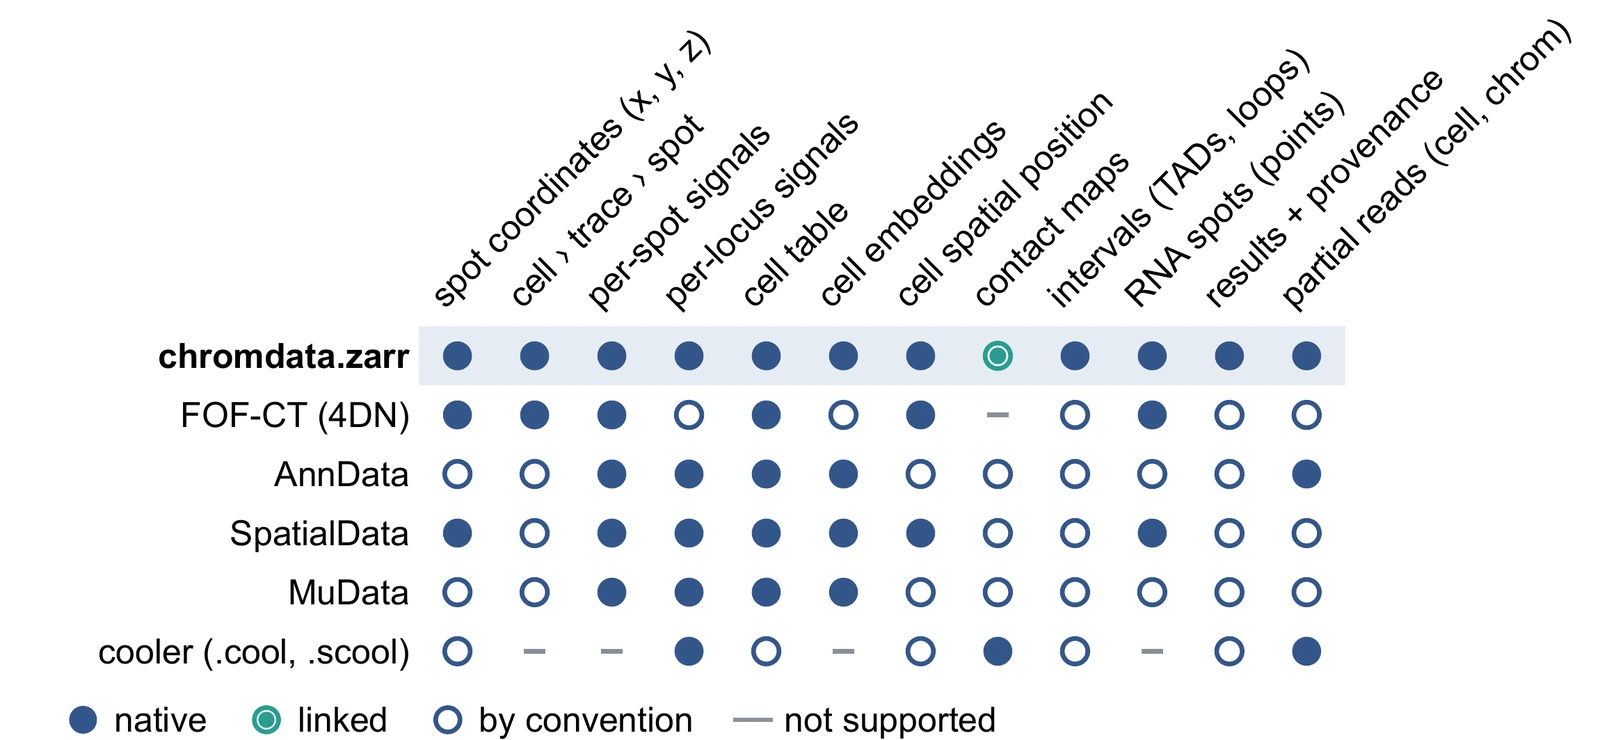
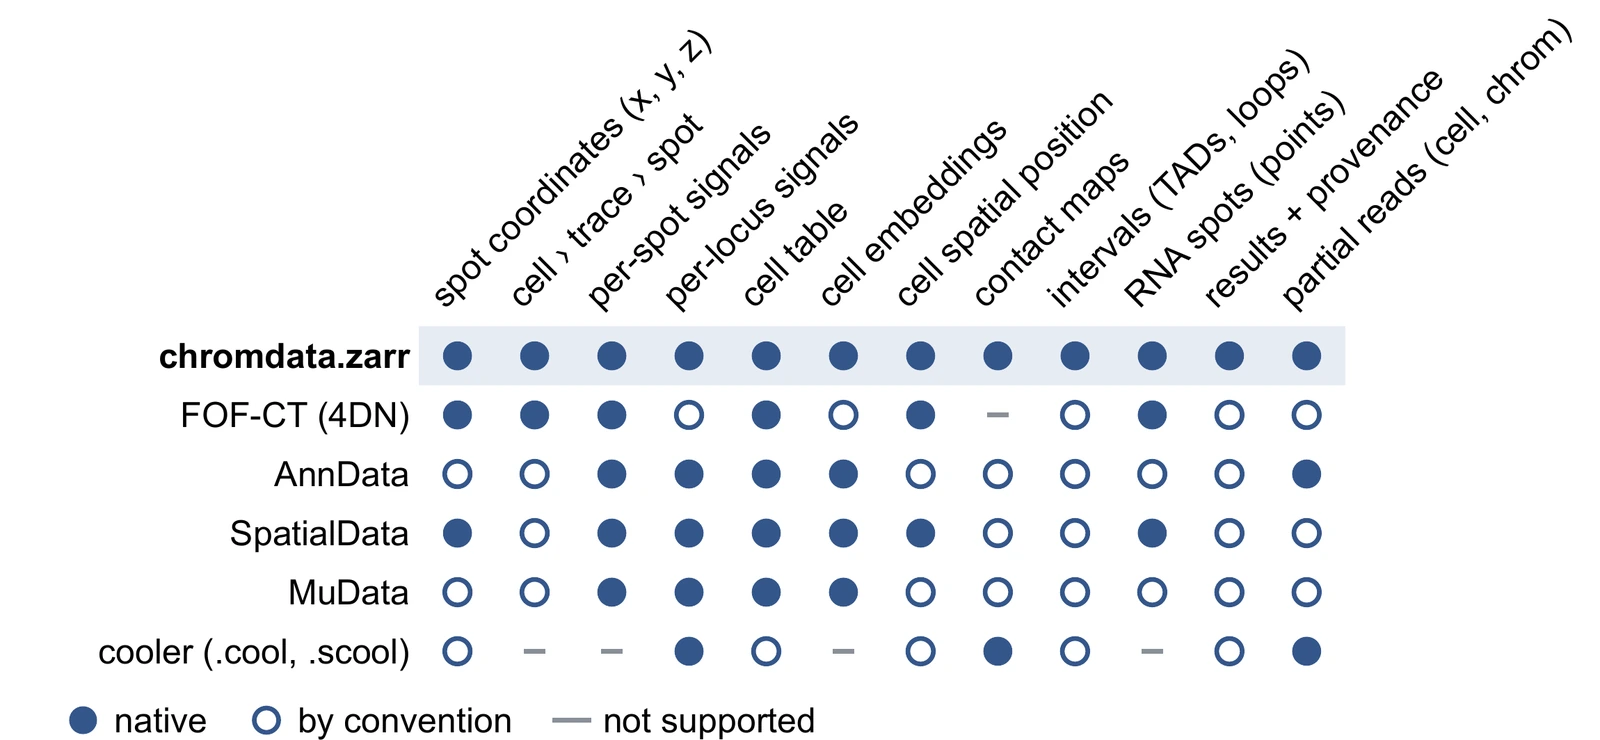
Capability audit: contact maps native (embedded in the store), 2026-10-10
The chromdata test of the capability audit now links a .scool, writes the store with the maps embedded
(cd.write(path, embed=True)), deletes the external file and reads the maps back from the store alone
(load_linked_scool, embedded_links); the contacts cell of chromdata.zarr is native, with the linked
form kept as an option.  The audit date (2026-10-10) is separate from the date the FOF-CT specification
was read (FOFCT_CHECKED, 2026-09-27); main() reports this audit's changes apart from earlier ones; the
table omits the linked mark when no cell uses it.

Rerun in an environment with the recorded versions (anndata 0.12.11, spatialdata 0.7.2, mudata 0.3.4,
zarr 3.1.6, cooler 0.10.4): only the chromdata x contact-maps cell changed (linked -> native); results
written to the paper repository (manuscripts/full/figures/fig2/results/b_capabilities.json).
Docs concept page and the paper figure crops of the docs and the atlas site updated to the new panel.

Claude-Session: https://claude.ai/code/session_01WGoMpDRbz9QSDXkjFPKTsb

diff --git a/benchmarks/fig2/b_capabilities.py b/benchmarks/fig2/b_capabilities.py
@@ -6,7 +6,9 @@ evidence:
 * ``native``      — first-class, with its own structure (a slot / table /
   element whose semantics match the data element);
 * ``linked``      — kept in an external community-standard file (not copied)
-  and queried through the shared index (bins + cell map);
+  and queried through the shared index (bins + cell map) (no cell since the
+  audit of 2026-10-10: chromdata.zarr embeds its contact maps, linking stays
+  an option);
 * ``convention``  — can be stored and read back through the library's public
   API, but only in a general-purpose slot (``uns``, ``obsm``, ``varp``,
   ``attrs``, extra columns, optional columns), so the structure is lost or
@@ -105,8 +107,13 @@ COL_DEFS = {
                   "produced them.",
     "partial": "reading one cell's or one chromosome's rows from disk without reading the rest of the data.",
 }
-AUDIT_DATE = "2026-09-27"
-#: the changes of the previous audit (2026-09-26, PR #76), kept in Table S1
+AUDIT_DATE = "2026-10-10"
+FOFCT_CHECKED = "2026-09-27"         # FOF-CT is a specification: its pages were read in that audit
+#: the audit whose changes the 5-element MARKS entries record (before, reason); a 6th element names another
+PREV_AUDIT_DATE = "2026-09-27"
+PREV_AUDIT_NOTE = ("Column renamed: *3-D coordinates* → *spot coordinates (x, y, z)* (per-spot, and distinct from "
+                   "the cell spatial position).")
+#: the changes of the audit before (2026-09-26, PR #76), kept in Table S1
 PRIOR_AUDIT = {
     "date": "2026-09-26",
     "changes": [
@@ -205,11 +212,13 @@ def t_chromdata(tmp):
     cd.intervals.add("loops", pd.DataFrame({"chrom1": ["chr1"], "start1": [0], "end1": [100],
                                             "chrom2": ["chr1"], "start2": [300], "end2": [400]}), kind="pair")
     cd.results.set("tads.di", d["tads"], function="uchrom.strc.tad.di", params={"window": 5})
-    # a real .scool, linked (not copied): per-cell maps stay in the external file
+    # a real .scool, linked and embedded into the store on writing (write(embed=True)); the external file is
+    # then deleted, so the maps read back below come from the store itself
     cooler.create_scool(str(tmp / "cells.scool"), d["bins"], {c: d["contacts"] for c in d["cells"].index})
     cd.link_scool(tmp / "cells.scool", bin_size=100)
     path = tmp / "x.chromdata.zarr"
-    cd.write(path)
+    cd.write(path, embed=True)
+    (tmp / "cells.scool").unlink()
     r = ChromData.read(path, original_order=True)
     b = ChromData.read(path, backed=True)
     one = b.get_cell("c1")
@@ -235,9 +244,10 @@ def t_chromdata(tmp):
                       "status); set_cell_shapes: outlines as GeoParquet tables/cell_shapes/cell.parquet "
                       "(spec.md 'Cell spatial position', format 2.3)"),
         "contacts": T(np.allclose(c1.matrix(balance=False)[:], sym(d["contacts"]))
-                      and r.uns["linked_scool"]["default"]["bin_size"] == 100, EXT,
-                      "link_scool → uns['linked_scool'] record; load_linked_scool(cell='c1') reads the "
-                      "external .scool after the round trip"),
+                      and not (tmp / "cells.scool").exists()
+                      and set(r.embedded_links()["contacts"]) == {"default"}, DED,
+                      "link_scool, write(embed=True) → embedded/contacts in the store; the external .scool "
+                      "deleted; load_linked_scool(cell='c1') reads the store's copy after the round trip"),
         "intervals": T(r.intervals["tads"].kind == "domain" and loops.kind == "pair"
                        and r.intervals["tads"][["start", "end"]].to_numpy().tolist() == [[0, 200], [200, 500]],
                        DED, "intervals: IntervalTable kind='domain' (TADs) and kind='pair' (loops)"),
@@ -586,10 +596,15 @@ MARKS = {
                      [CD_SPEC, "packages/chromdata/tests/test_cell_spatial.py", "packages/chromdata/chromdata/cellspatial.py"], "convention",
                      "cell positions became a schema element (centroid columns + record, GeoParquet outlines; "
                      "format 2.3, PR #77); before: two ad-hoc 2-D cells columns, no outline"),
-        "contacts": ("linked", "linked, not copied: uns['linked_scool' / 'linked_cool'] records path, bin size "
-                               "and cell map; load_linked_scool / Dataset.contacts(group=) read them (test: a real "
-                               ".scool read back after the round trip). Our own call: the pixels stay in the "
-                               "external .scool / .cool by design.", [CD_SPEC, CD_CODE]),
+        "contacts": ("native", "embedded in the store: per-cell or bulk maps, one group per resolution, pixels "
+                               "partitioned by chromosome and chunked for range reads; written from a .scool / "
+                               ".cool by write(embed=True) or chromdata.embedded; read through the shared index (bins "
+                               "+ cell map) by load_linked_scool / load_linked_cool and the group pseudo-bulk query, "
+                               "also over HTTP. Linking the community file instead (path, bin size and cell map in "
+                               "uns['linked_scool' / 'linked_cool']) stays an option.",
+                     [CD_SPEC, CD_CODE, "packages/chromdata/chromdata/embedded.py"], "linked",
+                     "contact maps embedded in the store and read back without the external file (test); linking "
+                     "stays an option", AUDIT_DATE),
         "intervals": ("native", "intervals: typed IntervalTable (domain / pair / peak / segment); TADs as domain, "
                                 "loops as pair", [CD_SPEC]),
         "points": ("native", "points: non-genomic 3-D points in the coords frame", [CD_SPEC]),
@@ -772,8 +787,8 @@ def main() -> None:
             versions[mod] = importlib.import_module(mod).__version__
         except Exception:  # pragma: no cover
             versions[mod] = None
-    versions["FOF-CT"] = f"v1.0 (specification pages checked {AUDIT_DATE})"
-    cells, failures, changes, extra_tests = {}, [], [], {}
+    versions["FOF-CT"] = f"v1.0 (specification pages checked {FOFCT_CHECKED})"
+    cells, failures, changes, prev_changes, extra_tests = {}, [], [], [], {}
     with tempfile.TemporaryDirectory() as td:
         for row in ROWS:
             test = {}
@@ -795,8 +810,10 @@ def main() -> None:
                 entry = {"value": mark, "note": note, "evidence": urls,
                          "version": versions["FOF-CT"] if row.startswith("FOF") else versions[LIB[row]]}
                 if chg:
-                    entry["audit"] = {"date": AUDIT_DATE, "before": chg[0], "reason": chg[1]}
-                    changes.append({"row": row, "col": col, "before": chg[0], "after": mark, "reason": chg[1]})
+                    date = chg[2] if len(chg) > 2 else PREV_AUDIT_DATE
+                    entry["audit"] = {"date": date, "before": chg[0], "reason": chg[1]}
+                    ch = {"row": row, "col": col, "before": chg[0], "after": mark, "reason": chg[1]}
+                    (changes if date == AUDIT_DATE else prev_changes).append(ch)
                 t = test.get(col)
                 if t is not None:
                     entry["test"] = {"script": "benchmarks/fig2/b_capabilities.py", **t}
@@ -832,11 +849,11 @@ def main() -> None:
                   "as one metadata key per dimension) is rated not supported, with the test still reported"],
         "rows": ROWS, "cols": [c for c, _ in COLS], "col_labels": dict(COLS), "col_defs": COL_DEFS,
         "cells": cells, "versions": versions, "audit_date": AUDIT_DATE, "audit_changes": changes,
-        "label_changes": [{"col": "coords", "before": "3-D coordinates", "after": dict(COLS)["coords"],
-                           "reason": "per-spot, and distinct from the cell spatial position"}],
-        "prior_audit": {"date": PRIOR_AUDIT["date"], "note": PRIOR_AUDIT["note"],
-                        "changes": [{"row": r, "col": c, "before": b, "after": a, "reason": why}
-                                    for r, c, b, a, why in PRIOR_AUDIT["changes"]]},
+        "prior_audits": [
+            {"date": PREV_AUDIT_DATE, "note": PREV_AUDIT_NOTE, "changes": prev_changes},
+            {"date": PRIOR_AUDIT["date"], "note": PRIOR_AUDIT["note"],
+             "changes": [{"row": r, "col": c, "before": b, "after": a, "reason": why}
+                         for r, c, b, a, why in PRIOR_AUDIT["changes"]]}],
         "uncounted_tests": extra_tests,
         "mismatches": [list(map(str, f)) for f in failures],
     }
@@ -855,7 +872,8 @@ def write_table(payload) -> Path:
     rows, cols, lab = payload["rows"], payload["cols"], payload["col_labels"]
     v = payload["versions"]
     out = [
-        "# Supplementary Table S1 — What each format can represent (evidence for Fig. 2b)",
+        "# Supplementary Table S1 — What each format can represent (evidence for Fig. 2b; Extended Data Fig. 1b of "
+        "the Brief Communication)",
         "",
         "Generated by `benchmarks/fig2/b_capabilities.py` from `u-chrom-paper/manuscripts/full/figures/fig2/results/b_capabilities.json`; "
         "do not edit by hand.",
@@ -866,8 +884,7 @@ def write_table(payload) -> Path:
     out += [f"- *{lab[c]}*: {payload['col_defs'][c]}" for c in cols]
     out += [
         "",
-        "**Marks.** ● *native*: first-class, with its own structure. ◎ *linked*: kept in an external "
-        "community-standard file (not copied) and queried through the shared index. ○ *by convention*: stored "
+        "**Marks.** ● *native*: first-class, with its own structure. ○ *by convention*: stored "
         "and read back through the library's public API, but only in a general-purpose slot (`uns`, `obsm`, "
         "`varp`, `attrs`, metadata attributes, extra or optional columns), so the structure is lost or ad hoc. "
         "– *not supported*: no place for it in the format or its API.",
@@ -878,7 +895,8 @@ def write_table(payload) -> Path:
         "other in one object (one AnnData, one MuData modality; a MuData can hold one modality per orientation, "
         "linked only by `obs` columns). The hierarchy column is where that shows; the same holds for a "
         "SpatialData table, which is an AnnData. (3) A test that needed a general-purpose slot can back at most "
-        "*by convention*, one that needed an external file *linked*; the script fails on any inconsistency. "
+        "*by convention*, one that needed an external file *linked* (kept in an external community file, queried "
+        "through the shared index; no cell since the audit of 2026-10-10); the script fails on any inconsistency. "
         "(4) A data table serialised to JSON text inside a descriptive metadata attribute (cooler's `metadata`) "
         "does not count; such tests are still run and reported as *not counted*. Parameters / software records "
         "(provenance) there do count, and so do scalar key-values that describe the object carrying the "
@@ -915,10 +933,7 @@ def write_table(payload) -> Path:
         for ch in payload["audit_changes"]:
             out.append(f"| {ch['row']} | {lab[ch['col']]} | {SYMBOL[ch['before']]} | {SYMBOL[ch['after']]} | "
                        f"{ch['reason']} |")
-    for lc in payload.get("label_changes", []):
-        out += ["", f"Column renamed: *{lc['before']}* → *{lc['after']}* ({lc['reason']})."]
-    prior = payload.get("prior_audit")
-    if prior:
+    for prior in payload.get("prior_audits", []):
         out += ["", f"## Changes after the audit of {prior['date']}", "",
                 "| Container | Element | Before | After | Reason |", "|---|---|---|---|---|"]
         for ch in prior["changes"]:

diff --git a/docs/source/start/concepts.md b/docs/source/start/concepts.md
@@ -87,7 +87,7 @@ ChromData
 
 The tables of a `ChromData` and how they are joined: spots (one row per observation) point at the
 shared locus axis (bins) and at traces and cells through keys; coordinates and per-spot tracks are
-row-aligned with the spots; contact maps are linked, not copied.  Right, the layout of a
+row-aligned with the spots; contact maps are embedded in the store or linked to their files.  Right, the layout of a
 `.chromdata.zarr` store (Parquet tables, Zarr arrays, JSON attributes).  From Fig. 2a of the U-Chrom
 paper.
 ```
